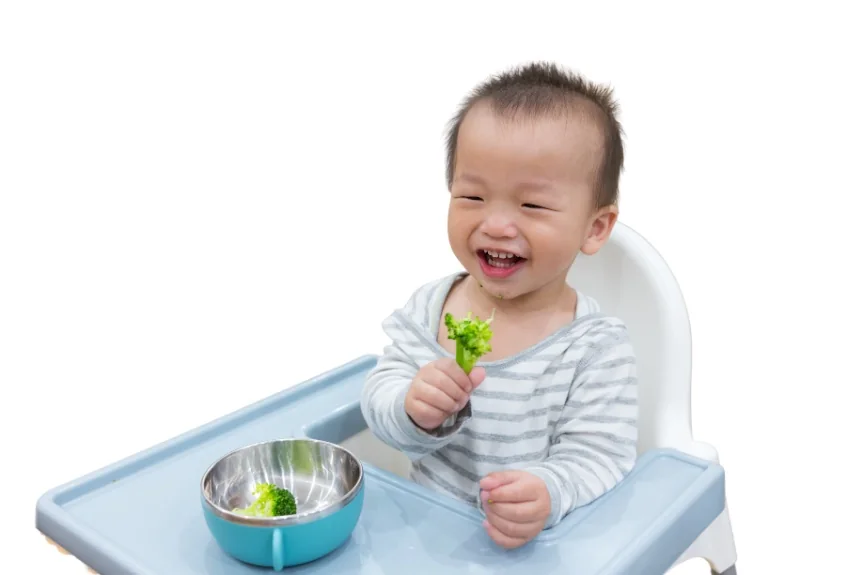
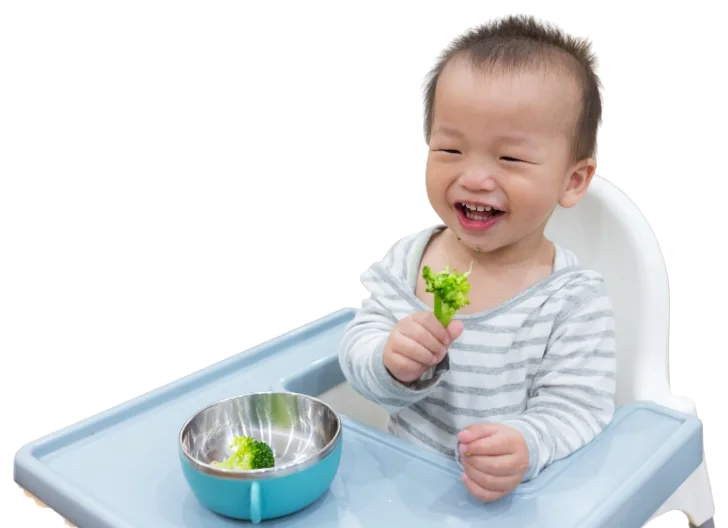
fix(public_www): knock out the Mealtimes hero studio background
Keep the high chair and shirt, and store the photo as a transparent webp like the other heroes.

diff --git a/apps/public_www/tests/content/landing-pages/nov-2026-mealtimes-workshop.test.ts b/apps/public_www/tests/content/landing-pages/nov-2026-mealtimes-workshop.test.ts
@@ -1,6 +1,15 @@
+import { dirname, resolve } from 'node:path';
+import { fileURLToPath } from 'node:url';
+
+import sharp from 'sharp';
 import { describe, expect, it } from 'vitest';
 
 import mealtimes from '@/content/landing-pages/nov-2026-mealtimes-workshop.json';
+
+const mealtimesHeroImagePath = resolve(
+  dirname(fileURLToPath(import.meta.url)),
+  '../../../public/images/hero/mealtimes-workshop-hero.webp',
+);
 
 const locales = ['en', 'zh-CN', 'zh-HK'] as const;
 
@@ -9,6 +18,16 @@ describe('nov-2026-mealtimes-workshop landing page', () => {
     for (const locale of locales) {
       expect(mealtimes[locale].hero).not.toHaveProperty('eyebrow');
     }
+  });
+
+  it('stores the mealtime hero as a transparent webp', async () => {
+    const meta = await sharp(mealtimesHeroImagePath).metadata();
+    expect(meta.hasAlpha).toBe(true);
+    const { data } = await sharp(mealtimesHeroImagePath)
+      .ensureAlpha()
+      .raw()
+      .toBuffer({ resolveWithObject: true });
+    expect(data[3]).toBe(0);
   });
 
   it('uses the high-chair mealtime photo in every locale', () => {
